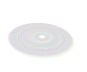
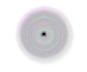
Adjustments to background animation

diff --git a/app/javascript/components/root/components/Mainpage/SiteLogo/SiteLogo.css b/app/javascript/components/root/components/Mainpage/SiteLogo/SiteLogo.css
@@ -1,6 +1,6 @@
   .starCW {
     background-repeat: repeat;
-    animation: starCW infinite 1000s linear;
+    animation: starCW infinite 3000s linear;
   }
 
   @keyframes starCW {
@@ -12,6 +12,23 @@
     }
     100% {
       transform: scale(4.5, 2) perspective(1px) rotate(5deg);
+    }
+  }
+
+  .starCWLag {
+    background-repeat: repeat;
+    animation: starCWLag infinite 3000s linear;
+  }
+
+  @keyframes starCWLag {
+    0% {
+      transform: scale(4.5, 2) perspective(1px) rotate(20deg);
+    }
+    50% {
+      transform: scale(4.5, 2) perspective(1px) rotate(380deg);
+    }
+    100% {
+      transform: scale(4.5, 2) perspective(1px) rotate(20deg);
     }
   }
 
@@ -34,7 +51,7 @@
 
   .blackhole {
     background-repeat: no-repeat;
-    animation: blackhole infinite 20000s linear;
+    animation: blackhole infinite 9000s linear;
     background-position: center;
   }
 

diff --git a/app/javascript/components/root/Root.js b/app/javascript/components/root/Root.js
@@ -27,6 +27,7 @@ function Root() {
           }}
         >
           <div className='starCW' style={{ position: 'absolute', width: '100%', height: '100%', backgroundImage: `url(${stars})` }}></div>
+          <div className='starCWLag' style={{ position: 'absolute', width: '100%', height: '100%', backgroundImage: `url(${stars})` }}></div>
           <div className='starCCW' style={{ position: 'absolute', width: '100%', height: '100%', backgroundImage: `url(${stars})` }}></div>
           <div className='blackhole' style={{ position: 'absolute', width: '100%', height: '100%', backgroundImage: `url(${blackhole})` }} />
           <Switch>
